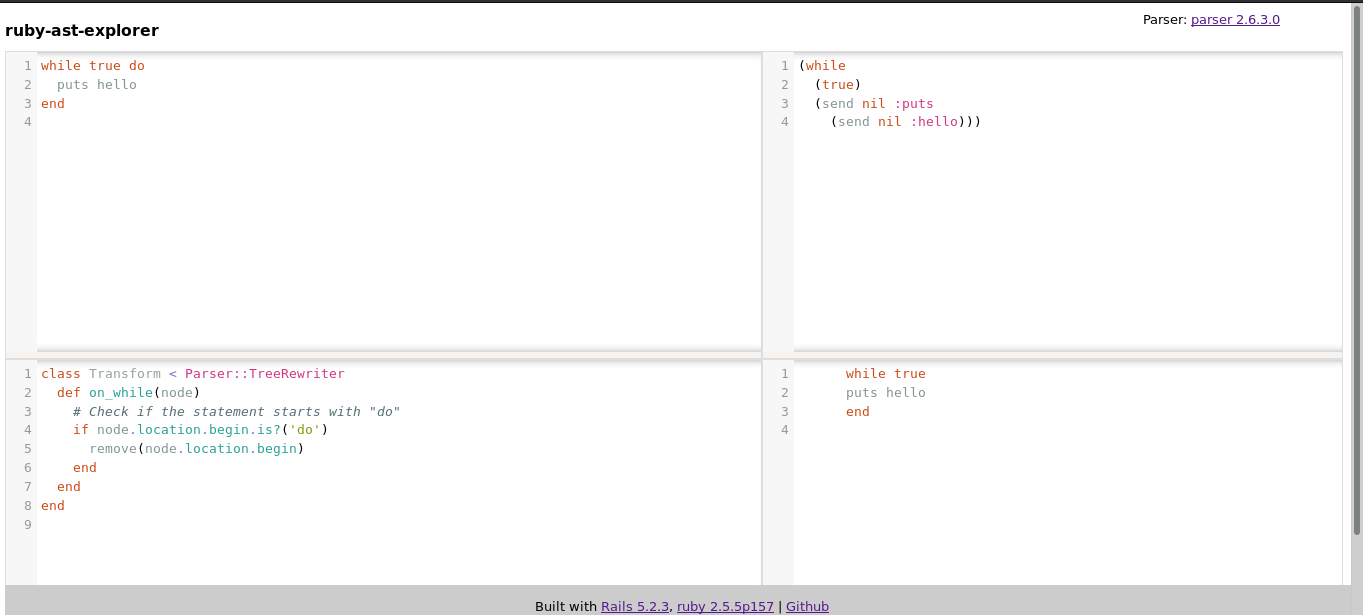
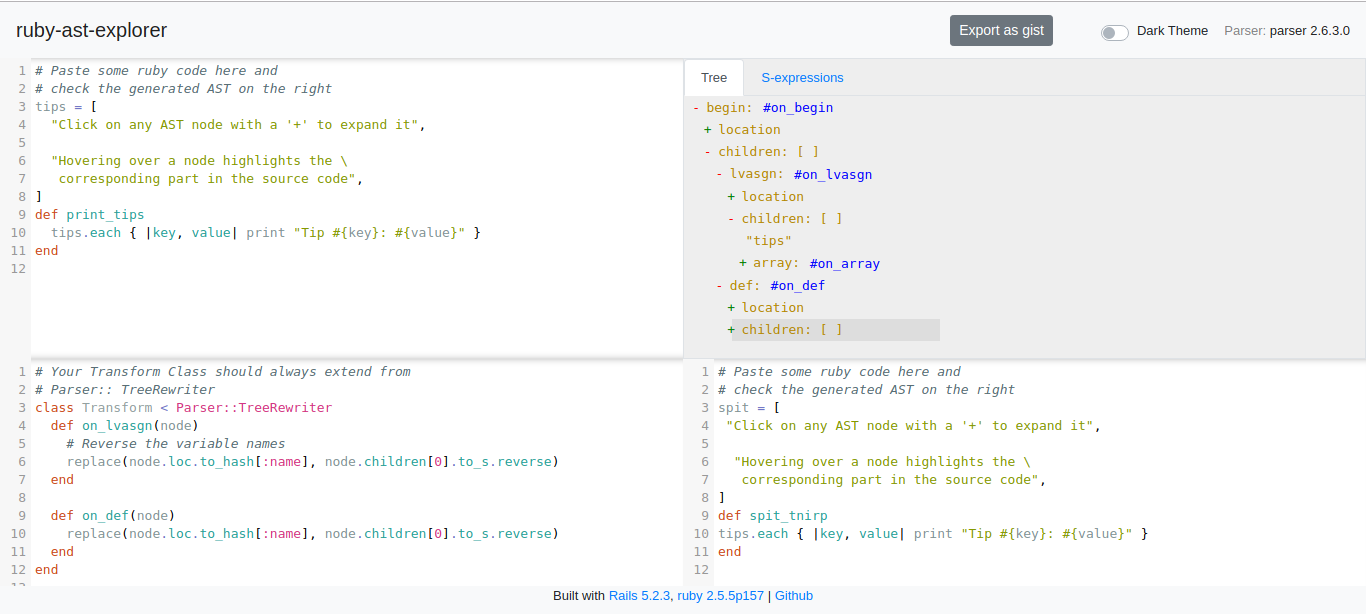
[DOCS] Update readme
1. New screenshot
2. Add info about gist export option

diff --git a/README.md b/README.md
@@ -13,10 +13,20 @@ the same to do large scale refactorings with your ruby code base using a tool li
 $ codeshift -t transform.rb app/models/**/*.rb
 ```
 
+## Export as gist
+You can also export the source and transform code as gist to your Github account by clicking
+the `Export as gist` button. But before that you need to sign in with Github and give permission to create gists for this app named ruby-ast-explorer.
+
+
+And with that you can directly use the transform from your gist.
+```sh
+$ codeshift -t https://gist.githubusercontent.com/[user]/.../transform.rb  app/models/**/*.rb
+```
+
 It has got four panes with the following content:
 
 * Top-Left => Original Source Code
-* Top-Right => AST representation in S-expressions
+* Top-Right => AST in Tree and S-expressions formats
 * Bottom-Left => Transform Class
 * Bottom-Right => Output
 
